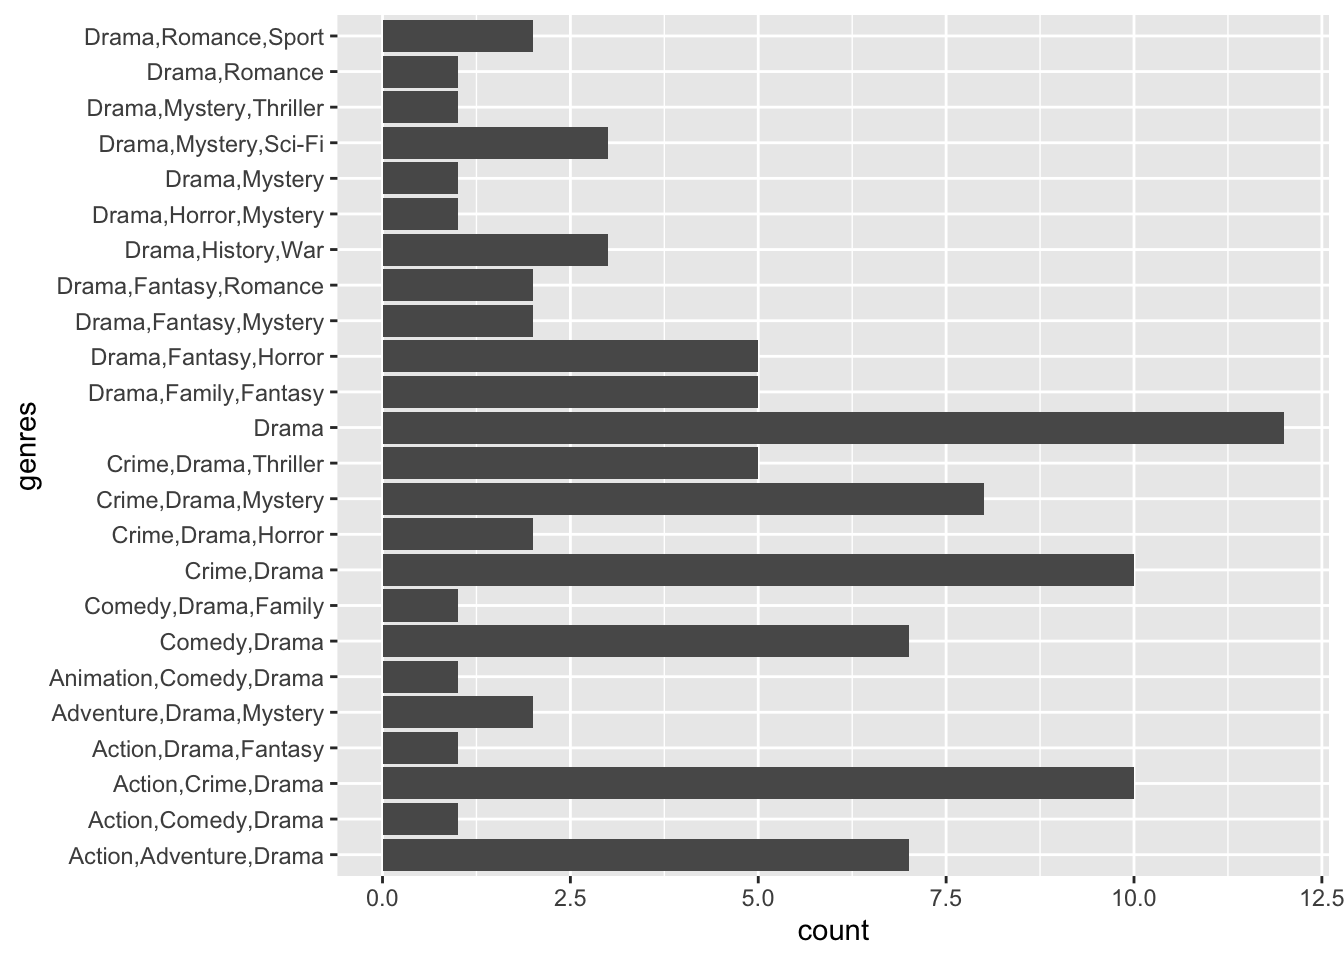
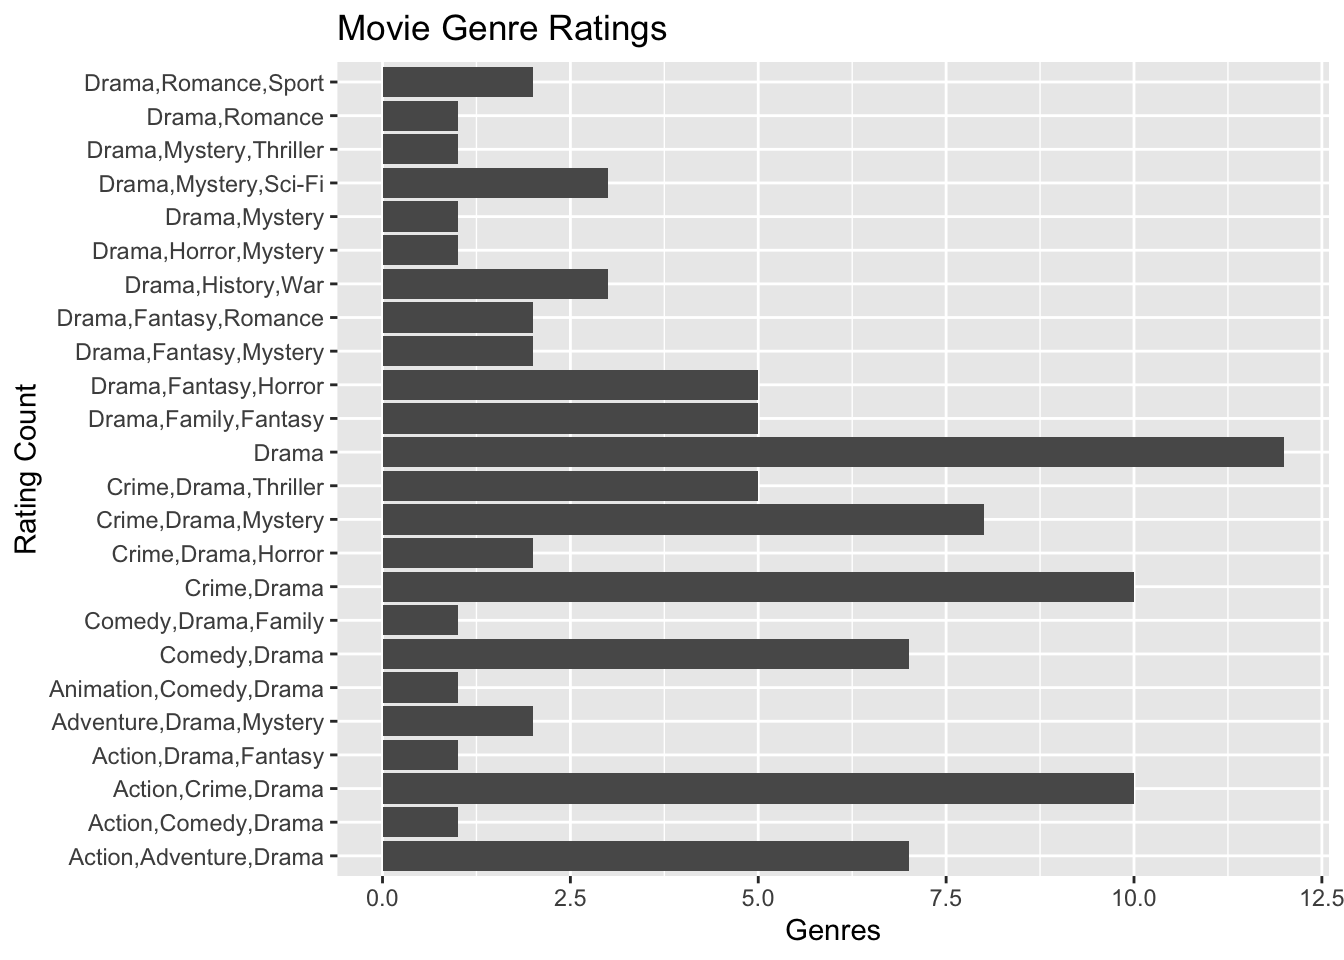
Getting Close

Changed region(s): [[0.0312, 0.0, 1.0, 0.9062], [0.0, 0.4062, 0.0312, 0.5938], [0.5938, 0.9375, 0.6562, 1.0]]

diff --git a/DV (4) HW.html b/DV (4) HW.html
@@ -194,7 +194,8 @@ $ genres       &lt;chr&gt; "Drama,Mystery,Sci-Fi", "Adventure,Drama,Mystery", "A
 <span id="cb10-3"><a href="#cb10-3" aria-hidden="true" tabindex="-1"></a>  <span class="fu">filter</span>(av_rating <span class="sc">&gt;=</span> <span class="dv">9</span>) <span class="sc">|&gt;</span> </span>
 <span id="cb10-4"><a href="#cb10-4" aria-hidden="true" tabindex="-1"></a>  <span class="fu">ggplot</span>(<span class="fu">aes</span>(<span class="at">x =</span> genres)) <span class="sc">+</span></span>
 <span id="cb10-5"><a href="#cb10-5" aria-hidden="true" tabindex="-1"></a>  <span class="fu">geom_bar</span>() <span class="sc">+</span></span>
-<span id="cb10-6"><a href="#cb10-6" aria-hidden="true" tabindex="-1"></a>   <span class="fu">coord_flip</span>()</span></code><button title="Copy to Clipboard" class="code-copy-button"><i class="bi"></i></button></pre></div>
+<span id="cb10-6"><a href="#cb10-6" aria-hidden="true" tabindex="-1"></a>   <span class="fu">coord_flip</span>() <span class="sc">+</span></span>
+<span id="cb10-7"><a href="#cb10-7" aria-hidden="true" tabindex="-1"></a>   <span class="fu">labs</span>(<span class="at">x =</span> <span class="st">"Rating Count"</span>, <span class="at">y =</span> <span class="st">"Genres"</span>, <span class="at">title =</span> <span class="st">"Movie Genre Ratings"</span>)</span></code><button title="Copy to Clipboard" class="code-copy-button"><i class="bi"></i></button></pre></div>
 <div class="cell-output-display">
 <p><img src="DV--4--HW_files/figure-html/unnamed-chunk-5-1.png" class="img-fluid" width="672"></p>
 </div>
@@ -206,9 +207,45 @@ $ genres       &lt;chr&gt; "Drama,Mystery,Sci-Fi", "Adventure,Drama,Mystery", "A
 </section>
 <section id="question-4" class="level2">
 <h2 class="anchored" data-anchor-id="question-4">Question 4</h2>
+<div class="cell">
+<div class="sourceCode cell-code" id="cb11"><pre class="sourceCode r code-with-copy"><code class="sourceCode r"><span id="cb11-1"><a href="#cb11-1" aria-hidden="true" tabindex="-1"></a>comedies_dramas <span class="ot">&lt;-</span> tv_ratings <span class="sc">%&gt;%</span> </span>
+<span id="cb11-2"><a href="#cb11-2" aria-hidden="true" tabindex="-1"></a>  <span class="fu">mutate</span>(<span class="at">is_comedy =</span> <span class="fu">if_else</span>(<span class="fu">str_detect</span>(genres, <span class="st">"Comedy"</span>), </span>
+<span id="cb11-3"><a href="#cb11-3" aria-hidden="true" tabindex="-1"></a>                             <span class="dv">1</span>, </span>
+<span id="cb11-4"><a href="#cb11-4" aria-hidden="true" tabindex="-1"></a>                             <span class="dv">0</span>)) <span class="sc">%&gt;%</span> <span class="co"># If it contains the word comedy then 1, else 0</span></span>
+<span id="cb11-5"><a href="#cb11-5" aria-hidden="true" tabindex="-1"></a>  <span class="fu">filter</span>(is_comedy <span class="sc">==</span> <span class="dv">1</span> <span class="sc">|</span> genres <span class="sc">==</span> <span class="st">"Drama"</span>) <span class="sc">%&gt;%</span> <span class="co"># Keep comedies and dramas</span></span>
+<span id="cb11-6"><a href="#cb11-6" aria-hidden="true" tabindex="-1"></a>  <span class="fu">mutate</span>(<span class="at">genres =</span> <span class="fu">if_else</span>(genres <span class="sc">==</span> <span class="st">"Drama"</span>, <span class="co"># Make it so that we only have those two genres</span></span>
+<span id="cb11-7"><a href="#cb11-7" aria-hidden="true" tabindex="-1"></a>                          <span class="st">"Drama"</span>, </span>
+<span id="cb11-8"><a href="#cb11-8" aria-hidden="true" tabindex="-1"></a>                          <span class="st">"Comedy"</span>))</span>
+<span id="cb11-9"><a href="#cb11-9" aria-hidden="true" tabindex="-1"></a></span>
+<span id="cb11-10"><a href="#cb11-10" aria-hidden="true" tabindex="-1"></a><span class="fu">glimpse</span>(comedies_dramas) <span class="sc">|&gt;</span></span>
+<span id="cb11-11"><a href="#cb11-11" aria-hidden="true" tabindex="-1"></a>  <span class="fu">ggplot</span>(<span class="fu">aes</span>(<span class="at">x =</span> av_rating, <span class="at">group =</span> genres, <span class="at">color =</span> genres)) <span class="sc">+</span></span>
+<span id="cb11-12"><a href="#cb11-12" aria-hidden="true" tabindex="-1"></a>  <span class="fu">geom_density</span>() <span class="sc">+</span></span>
+<span id="cb11-13"><a href="#cb11-13" aria-hidden="true" tabindex="-1"></a>  <span class="fu">labs</span>(<span class="at">x =</span> <span class="st">"Average Ratings"</span>, <span class="at">y =</span> <span class="st">"Density"</span>, <span class="at">title =</span> <span class="st">"Comedy vs. Drama"</span>)</span></code><button title="Copy to Clipboard" class="code-copy-button"><i class="bi"></i></button></pre></div>
+<div class="cell-output cell-output-stdout">
+<pre><code>Rows: 684
+Columns: 8
+$ titleId      &lt;chr&gt; "tt0312081", "tt0312081", "tt0312081", "tt1225901", "tt12…
+$ seasonNumber &lt;dbl&gt; 1, 2, 3, 1, 2, 3, 4, 5, 1, 2, 1, 25, 1, 1, 2, 3, 4, 5, 1,…
+$ title        &lt;chr&gt; "8 Simple Rules", "8 Simple Rules", "8 Simple Rules", "90…
+$ date         &lt;date&gt; 2002-09-17, 2003-11-04, 2004-11-12, 2009-01-03, 2009-11-…
+$ av_rating    &lt;dbl&gt; 7.5000, 8.6000, 8.4043, 7.1735, 7.4686, 7.6858, 6.8344, 7…
+$ share        &lt;dbl&gt; 0.03, 0.10, 0.06, 0.40, 0.14, 0.10, 0.04, 0.01, 0.48, 0.4…
+$ genres       &lt;chr&gt; "Comedy", "Comedy", "Comedy", "Comedy", "Comedy", "Comedy…
+$ is_comedy    &lt;dbl&gt; 1, 1, 1, 1, 1, 1, 1, 1, 1, 1, 0, 1, 1, 1, 1, 1, 1, 1, 1, …</code></pre>
+</div>
+<div class="cell-output-display">
+<p><img src="DV--4--HW_files/figure-html/unnamed-chunk-6-1.png" class="img-fluid" width="672"></p>
+</div>
+</div>
+<p>How does my prediction above hold? Are dramas rated higher?</p>
+<p>Your predictions above do hold true as comedies do rival the best dramas, and comedies are actually rated higher.</p>
 </section>
 <section id="question-5" class="level2">
 <h2 class="anchored" data-anchor-id="question-5">Question 5</h2>
+<p>Let’s experiment with different ways of visualizing this. First, do the same plot using histograms.</p>
+<p>What additional information does this give you?</p>
+<p>Hint: look at the size of the bars. I probably categorized way too many shows as “comedies”. I had to stack the deck.</p>
+<p>Now, use <code>geom_freqpoly()</code>. What do you notice? Of the three plots, which one do you think it’s more informative?</p>
 </section>
 <section id="question-6" class="level2">
 <h2 class="anchored" data-anchor-id="question-6">Question 6</h2>
